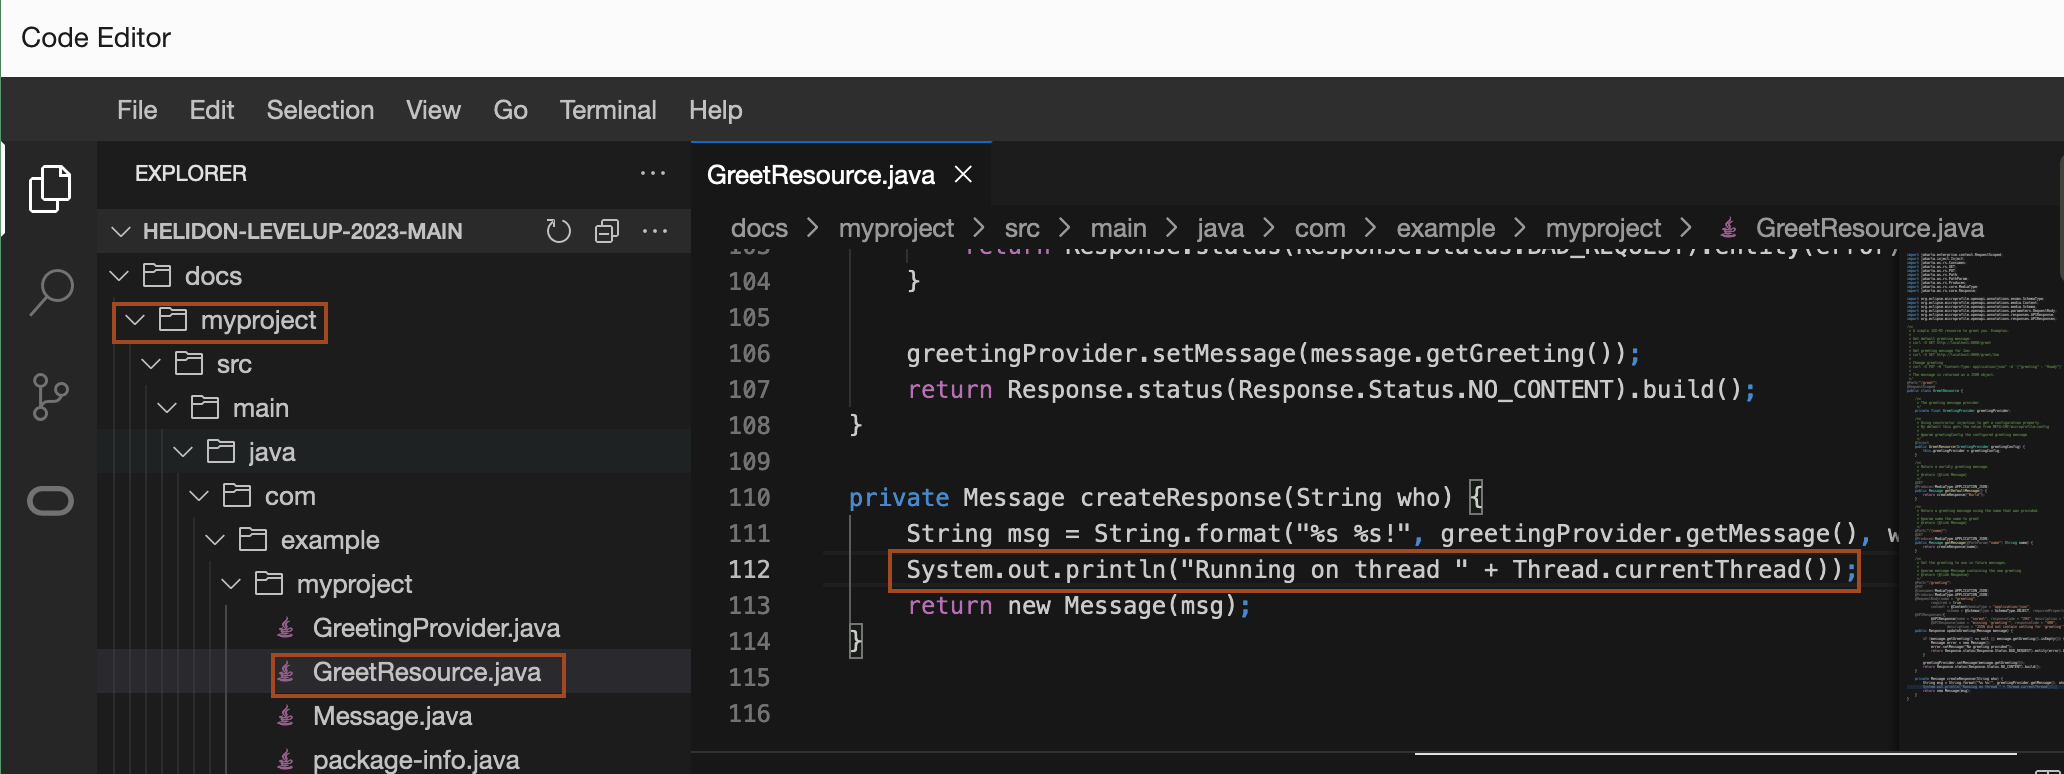
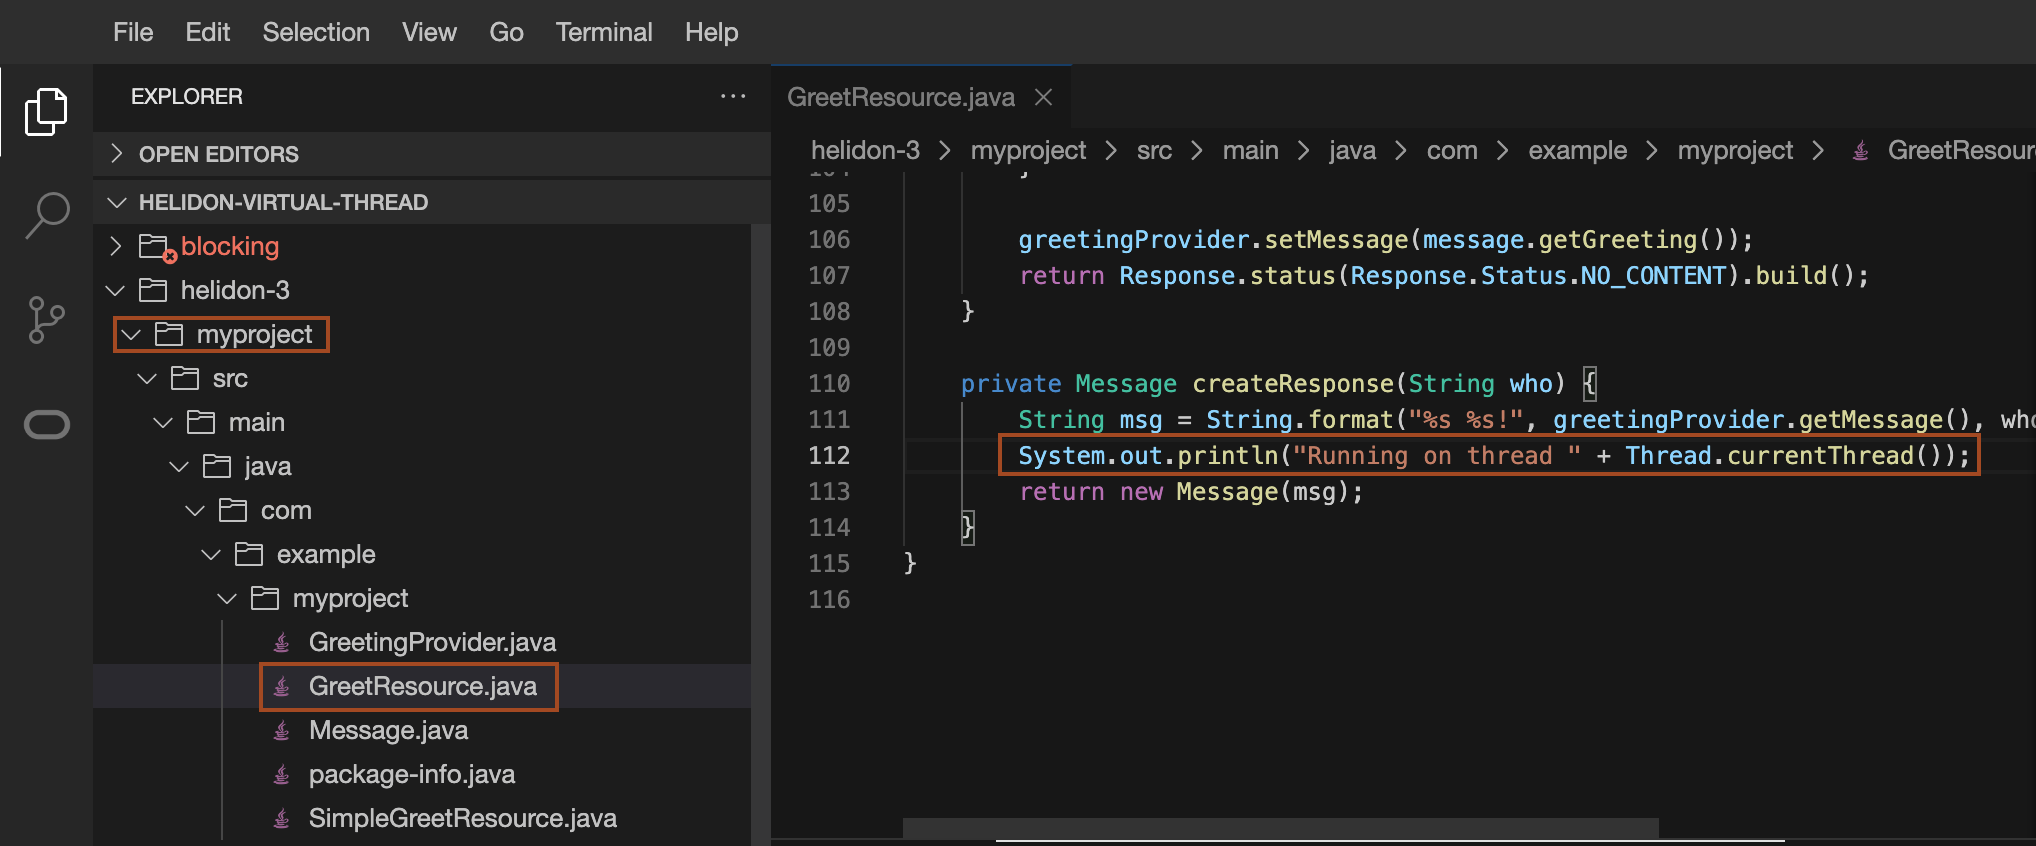
Lab 4 updated

diff --git a/helidon-virtual-thread/migrate-application/migrate-application.md b/helidon-virtual-thread/migrate-application/migrate-application.md
@@ -12,8 +12,8 @@ Estimated Time: 20 minutes
 
 ### Objectives
 
-* Generate, build and run a Helidon MicroProfile application using Helidon Starter.
-* Migrate the Helidon 3 Microprofile application to Helidon 4
+* Generate, build and run a Helidon MP application using Helidon Starter.
+* Migrate the Helidon 3 MP application to Helidon 4
 
 ### Prerequisites
 
@@ -25,15 +25,20 @@ Estimated Time: 20 minutes
 1. Copy the below URL and paste it into the browser to open the Helidon Project page.
 
     ```bash
-    <copy>https://helidon.io/starter/</copy>
+    <copy>https://helidon.io/starter/3.2.5</copy>
     ```
 2. Under Generate Your Project, select *Helidon MP* as Helidon Flavor and then click *Next*.
 
 3. For Application Type, select *Quickstart* and then click *Next*.
 
-4. For Media Support, select *Jackson* and then click *Next*.
+4. For Media Support, select *JSON-B* and then click *Next*.
 
 5. For Customize Project, select the default values and click on *Downloads*. This will pop up in a window, save this *myproject.zip* to the location of your choice. In the rest of this workshop, the *myproject* name will be used. if you choose a different name, please change respectively.
+
+6. Copy and paste the following command to create the directory **helidon-3**
+    ```bash
+    <copy>mkdir ~/helidon-virtual-thread/helidon-3</copy>
+    ```
 
 6. Go back to Code Editor, In helidon-virtual-thread, and click *helidon-3*.
     ![Select docs](images/select-docs.png)
@@ -64,11 +69,11 @@ Estimated Time: 20 minutes
     You will see output similar to the following:
     ```bash
     $ java -jar target/myproject.jar
-    2023.02.28 03:48:36 INFO io.helidon.common.LogConfig Thread[#1,main,5,main]: Logging at initialization configured using classpath: /logging.properties
-    2023.02.28 03:48:39 INFO io.helidon.microprofile.server.ServerCdiExtension Thread[#1,main,5,main]: Registering JAX-RS Application: HelidonMP
-    2023.02.28 03:48:40 INFO io.helidon.webserver.NettyWebServer Thread[#31,nioEventLoopGroup-2-1,10,main]: Channel '@default' started: [id: 0x5b66bd2a, L:/0.0.0.0:8080]
-    2023.02.28 03:48:41 INFO io.helidon.microprofile.server.ServerCdiExtension Thread[#1,main,5,main]: Server started on http://localhost:8080 (and all other host addresses) in 4816 milliseconds (since JVM startup).
-    2023.02.28 03:48:41 INFO io.helidon.common.HelidonFeatures Thread[#32,features-thread,5,main]: Helidon MP 3.1.2 features: [CDI, Config, Health, JAX-RS, Metrics, Open API, Server]
+    2024.02.05 09:18:14 INFO io.helidon.common.LogConfig Thread[#1,main,5,main]: Logging at initialization configured using classpath: /logging.properties
+    2024.02.05 09:18:17 INFO io.helidon.microprofile.server.ServerCdiExtension Thread[#1,main,5,main]: Registering JAX-RS Application: HelidonMP
+    2024.02.05 09:18:18 INFO io.helidon.webserver.NettyWebServer Thread[#30,nioEventLoopGroup-2-1,10,main]: Channel '@default' started: [id: 0x1902a6e4, L:/0.0.0.0:8080]
+    2024.02.05 09:18:18 INFO io.helidon.microprofile.server.ServerCdiExtension Thread[#1,main,5,main]: Server started on http://localhost:8080 (and all other host addresses) in 3382 milliseconds (since JVM startup).
+    2024.02.05 09:18:18 INFO io.helidon.common.HelidonFeatures Thread[#31,features-thread,5,main]: Helidon MP 3.2.5 features: [CDI, Config, Health, JAX-RS, Metrics, Open API, Server]
     ```
 
 13. Go back to the terminal,from where you run the curl commands and run the following commands to check the application:
@@ -106,7 +111,7 @@ Estimated Time: 20 minutes
 18. Stop the *myproject* application by entering `Ctrl + C` in the terminal where the "java -jar target/myproject.jar" command is running.
 
 
-## Task 2: Migrate the Helidom MicroProfile application to Helidon 4
+## Task 2: Migrate the Helidom MP application to Helidon 4
 
 1. For myproject, open the *pom.xml* file and change the parent pom from *3.2.5* to *4.0.3*.
     ```bash
@@ -133,17 +138,46 @@ Estimated Time: 20 minutes
     ```
     You will have output similar to the following.
     ```bash
-    $ java --enable-preview  -jar target/myproject.jar
-    2023.02.28 03:56:17 INFO io.helidon.logging.jul.JulProvider Thread[#1,main,5,main]: Logging at initialization configured using classpath: /logging.properties
-    2023.02.28 03:56:21 INFO io.helidon.microprofile.server.ServerCdiExtension Thread[#1,main,5,main]: Registering JAX-RS Application: HelidonMP
-    2023.02.28 03:56:22 INFO io.helidon.nima.webserver.ServerListener VirtualThread[#25,start @default (/0.0.0.0:8080)]/runnable@ForkJoinPool-1-worker-1: [0x613cc6f8] http://0.0.0.0:8080 bound for socket '@default'
-    2023.02.28 03:56:22 INFO io.helidon.nima.webserver.ServerListener VirtualThread[#25,start @default (/0.0.0.0:8080)]/runnable@ForkJoinPool-1-worker-1: [0x613cc6f8] direct writes
-    2023.02.28 03:56:22 INFO io.helidon.nima.webserver.LoomServer Thread[#1,main,5,main]: Helidon Níma 4.0.0-ALPHA5
-    2023.02.28 03:56:22 INFO io.helidon.nima.webserver.LoomServer Thread[#1,main,5,main]: Started all channels in 19 milliseconds. 5131 milliseconds since JVM startup. Java 19.0.2+7-44
-    2023.02.28 03:56:22 INFO io.helidon.microprofile.server.ServerCdiExtension Thread[#1,main,5,main]: Server started on http://localhost:8080 (and all other host addresses) in 5144 milliseconds (since JVM startup).
-    2023.02.28 03:56:22 INFO io.helidon.common.features.HelidonFeatures Thread[#28,features-thread,5,main]: Helidon MP 4.0.0-ALPHA5 features: [CDI, Config, Health, Metrics, Open API, Server, WebServer]
+    $ java -jar target/myproject.jar
+    There is no Helidon logging implementation on classpath, skipping log configuration.
+    Feb 05, 2024 9:28:33 AM org.jboss.weld.bootstrap.WeldStartup <clinit>
+    INFO: WELD-000900: 5.1.1 (SP2)
+    Feb 05, 2024 9:28:34 AM org.jboss.weld.environment.deployment.discovery.DiscoveryStrategyFactory create
+    INFO: WELD-ENV-000020: Using jandex for bean discovery
+    Feb 05, 2024 9:28:34 AM org.jboss.weld.bootstrap.WeldStartup startContainer
+    INFO: WELD-000101: Transactional services not available. Injection of @Inject UserTransaction not available. Transactional observers will be invoked synchronously.
+    Feb 05, 2024 9:28:34 AM org.jboss.weld.event.ExtensionObserverMethodImpl checkRequiredTypeAnnotations
+    INFO: WELD-000411: Observer method [BackedAnnotatedMethod] public org.glassfish.jersey.ext.cdi1x.internal.ProcessAllAnnotatedTypes.processAnnotatedType(@Observes ProcessAnnotatedType<?>, BeanManager) receives events for all annotated types. Consider restricting events using @WithAnnotations or a generic type with bounds.
+    Feb 05, 2024 9:28:34 AM org.jboss.weld.event.ExtensionObserverMethodImpl checkRequiredTypeAnnotations
+    INFO: WELD-000411: Observer method [BackedAnnotatedMethod] private io.helidon.microprofile.openapi.OpenApiCdiExtension.processAnnotatedType(@Observes ProcessAnnotatedType<X>) receives events for all annotated types. Consider restricting events using @WithAnnotations or a generic type with bounds.
+    Feb 05, 2024 9:28:35 AM io.helidon.openapi.OpenApiFeature <init>
+    WARNING: Static OpenAPI file not found, checked: [META-INF/openapi.json, META-INF/openapi.yaml, META-INF/openapi.yml]
+    Feb 05, 2024 9:28:36 AM io.helidon.microprofile.server.ServerCdiExtension addApplication
+    INFO: Registering JAX-RS Application: HelidonMP
+    Feb 05, 2024 9:28:36 AM org.glassfish.jersey.server.wadl.WadlFeature configure
+    WARNING: JAX-B API not found . WADL feature is disabled.
+    Feb 05, 2024 9:28:36 AM io.helidon.webserver.ServerListener start
+    INFO: [0x0571f5b8] http://0.0.0.0:8080 bound for socket '@default'
+    Feb 05, 2024 9:28:36 AM io.helidon.webserver.LoomServer startIt
+    INFO: Started all channels in 16 milliseconds. 3036 milliseconds since JVM startup. Java 21.0.2+13-LTS-58
+    Feb 05, 2024 9:28:36 AM io.helidon.microprofile.server.ServerCdiExtension startServer
+    INFO: Server started on http://localhost:8080 (and all other host addresses) in 3043 milliseconds (since JVM startup).
+    Feb 05, 2024 9:28:37 AM io.helidon.common.features.HelidonFeatures features
+    INFO: Helidon MP 4.0.3 features: [CDI, Config, Health, Metrics, Open API, Server]
     ```
-5.  Look at the server output and note that the thread is now a VirtualThread.
+5. Go back to the terminal,from where you run the curl commands and run the following commands to check the application:
+
+    ```bash
+    <copy>
+    curl -X GET http://localhost:8080/greet
+    </copy>
+    {"message":"Hello World!"}
+    ```
+
+6. Look at the server output in the terminal where you started the server. You will have server output similar to the following:
+    ```bash
+    Running on thread VirtualThread[#31,[0x0571f5b8 0x2d2dbfe7] WebServer socket]/runnable@ForkJoinPool-1-worker-3
+    ```
 
 6. Stop the *myproject* application by entering `Ctrl + C` in the terminal where the "java -jar target/myproject.jar" command is running.
 

diff --git a/helidon-virtual-thread/intro/intro.md b/helidon-virtual-thread/intro/intro.md
@@ -33,7 +33,7 @@ In earlier versions of Helidon developers could pick from two programming models
 In Helidon 4 Oracle is introducing a webserver written from the ground up to use JEP 425 virtual threads. Helidon 4 provides an easy-to-use programming model with outstanding performance. With virtual threads, threads are no longer a scarce resource to be carefully pooled and managed. Instead, they are an abundant resource that can be created as needed to handle nearly unlimited concurrent requests. Because each request runs in its dedicated thread it is free to perform blocking operations -- like calling a database, or another service. And it can do so in a simple synchronous way with no fear of blocking a platform thread and starving other requests. You no longer need to resort to complicated asynchronous code to implement a low-overhead, highly concurrent service.
 
 
-The Helidon web server intends to replace Netty in the Helidon ecosystem. It also can be used by other frameworks as an embedded web server component.
+The Helidon web server replaces Netty in the Helidon ecosystem. It also can be used by other frameworks as an embedded web server component.
 
 ### Prerequisites
 This lab assumes you have:
